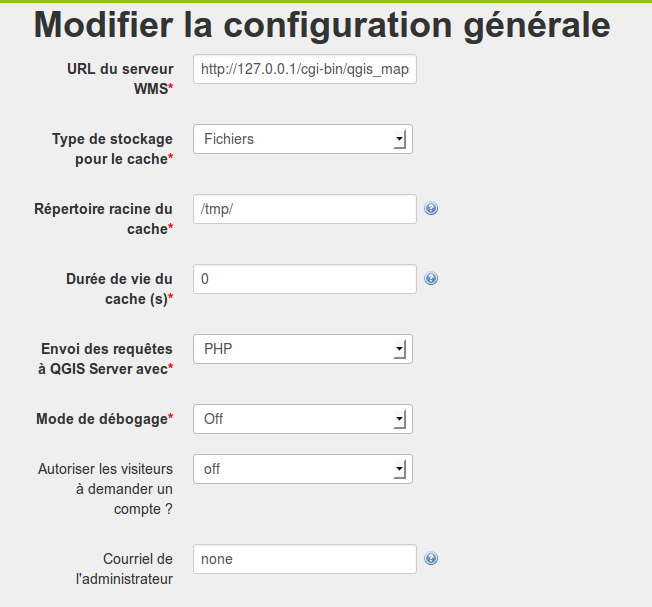
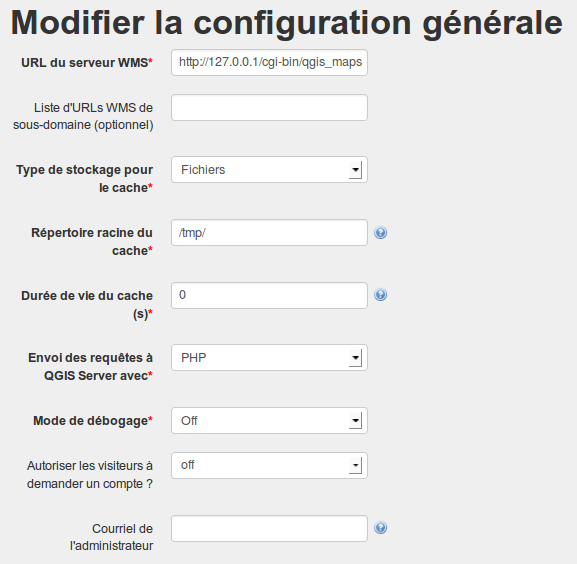
LWC - Change version number in installation guide

diff --git a/french/source/lizmap-web-client/installation/windows.rst b/french/source/lizmap-web-client/installation/windows.rst
@@ -4,7 +4,7 @@ Installation de Lizmap sous Windows
 
 Cette documentation présente le déroulement de l'installation de Lizmap Web Client sur un environnement  Windows 7. Les autres versions de Windows ne devraient pas poser de problème. Afin de faciliter l'installation, nous utilisons le logiciel OSGeo4W, qui permet d'installer l'ensemble des composants nécessaires de manière centralisée.
 
-.. note:: Dans ce document, nous utilisons la version 2.8.1 de Lizmap. Veuillez à adapter en fonction de la version que vous souhaitez installer (la dernière est recommandée)
+.. note:: Dans ce document, nous utilisons la version 2.9.0 de Lizmap. Veuillez à adapter en fonction de la version que vous souhaitez installer (la dernière est recommandée)
 
 Installation
 ===============================================================
@@ -69,9 +69,9 @@ Si rien ne s'affiche c'est que l'installation n'a pas réussi.
 
 12. Vérification de PHP
 
-Cliquer sur le lien 'phpinfo' de la page d'accueil du serveur apache d'OSGeo4W. Cette page permet de vérifier la configuration de votre serveur. Vous devriez y trouver des informations sur cgi-fcgi, PDO et PDO_sqlite mais pas sur CURL ni GD dont dépend LizMap. 
+Cliquer sur le lien 'phpinfo' de la page d'accueil du serveur apache d'OSGeo4W. Cette page permet de vérifier la configuration de votre serveur. Vous devriez y trouver des informations sur cgi-fcgi, PDO et PDO_sqlite mais pas sur CURL ni GD dont dépend LizMap.
 
-.. image:: ../MEDIA/installation-osgeo4w-09.jpg 
+.. image:: ../MEDIA/installation-osgeo4w-09.jpg
    :align: center
 
 .. image:: ../MEDIA/installation-osgeo4w-10.jpg
@@ -86,21 +86,21 @@ Ouvrir le fichier C:\OSGeo4W\bin\PHP.ini et dé-commenter l'extension curl et gd
 
 14. Rédémarrer Apache
 
-La modification du fichier C:\OSGeo4W\bin\PHP.ini afin d'activer CURL et GD dans PHP, oblige à redémarrer le serveur apache. Pour ce faire, 
+La modification du fichier C:\OSGeo4W\bin\PHP.ini afin d'activer CURL et GD dans PHP, oblige à redémarrer le serveur apache. Pour ce faire,
 
 * cliquer dans le menu principal de windows sur le moniteur apache 'Tous les programmes > OSGeo4W > Apache > OSGeo4W-Apache-Monitor'.
 
   .. image:: ../MEDIA/installation-osgeo4w-12.png
      :align: center
 
-* Cliquer sur le moniteur apache qui se trouve parmi les icônes cachées de la barre des tâches (en bas à droite) et sur 'Restart'. 
+* Cliquer sur le moniteur apache qui se trouve parmi les icônes cachées de la barre des tâches (en bas à droite) et sur 'Restart'.
 
   .. image:: ../MEDIA/installation-osgeo4w-13.png
      :align: center
 
 16. Vérfier CURL et GD
 
-Dans le navigateur web, recharger la page 'phpinfo'. Vous devriez y trouver une section CURL et GD. 
+Dans le navigateur web, recharger la page 'phpinfo'. Vous devriez y trouver une section CURL et GD.
 
 .. image:: ../MEDIA/installation-osgeo4w-14.jpg
    :align: center
@@ -109,27 +109,27 @@ Dans le navigateur web, recharger la page 'phpinfo'. Vous devriez y trouver une 
 
 Le code de Lizmap Web Client est libre et téléchargeable sur github. Pour télécharger la dernière version:
 
-* allez sur https://github.com/3liz/lizmap-web-client/tags 
-* Cliquez sur le petit lien *zip* de la dernière version. Par exemple le lien suivant pour la 2.8.1 : https://github.com/3liz/lizmap-web-client/archive/2.8.1.zip
+* allez sur https://github.com/3liz/lizmap-web-client/tags
+* Cliquez sur le petit lien *zip* de la dernière version. Par exemple le lien suivant pour la 2.9.0 : https://github.com/3liz/lizmap-web-client/archive/2.9.0.zip
 
 
 18. Décompresser LizMap dans 'C:\OSGeo4W\apache\htdocs\lizmap'
 
-Vous devez maintenant avoir un dossier 'C:\OSGeo4W\apache\htdocs\lizmap\lizmap-web-client-2.8.1\' 
+Vous devez maintenant avoir un dossier 'C:\OSGeo4W\apache\htdocs\lizmap\lizmap-web-client-2.9.0\'
 
 19. Test l'installation de Lizmap
 
-Tester si LizMap est bien installé en ouvrant dans le navigateur l'adresse http://localhost/lizmap/lizmap-web-client-2.8.1/lizmap/www. Vous devriez y voir s'afficher le projet "Montpellier" fourni avec LizMap et configurer pour être visible par tous. Pour pouvoir consulter les cartes, il va falloir configurer LizMap.
+Tester si LizMap est bien installé en ouvrant dans le navigateur l'adresse http://localhost/lizmap/lizmap-web-client-2.9.0/lizmap/www. Vous devriez y voir s'afficher le projet "Montpellier" fourni avec LizMap et configurer pour être visible par tous. Pour pouvoir consulter les cartes, il va falloir configurer LizMap.
 
 20. Interface d'administration
 
-Aller à l'adresse http://localhost/lizmap/lizmap-web-client-2.8.1/lizmap/www/admin.php et se connecter avec le login / mot de passe : 'admin/admin'.
+Aller à l'adresse http://localhost/lizmap/lizmap-web-client-2.9.0/lizmap/www/admin.php et se connecter avec le login / mot de passe : 'admin/admin'.
 
 21. Modifier l'URL de QGIS Server
 
 * Cliquer sur 'Configuration LizMap' puis sur modifier dans la section Services afin de préciser l'url de votre QGIS-Server.
 
-* Remplacer l'url du serveur WMS par http://127.0.0.1/qgis/qgis_mapserv.fcgi.exe et enregistrer : 
+* Remplacer l'url du serveur WMS par http://127.0.0.1/qgis/qgis_mapserv.fcgi.exe et enregistrer :
 
 .. image:: ../MEDIA/installation-osgeo4w-17.jpg
    :align: center
@@ -142,7 +142,7 @@ Afin de s'assurer que la configuration a bien réussi, cliquer sur 'Liste des pr
 Ajouter le support spatiatlite au PHP
 ==============================================================
 
-Pour pouvoir utiliser l'outil d'édition sur des couches spatiatlite, il faut ajouter l'extension spatialite dans PHP. Malheureusement, il faut une version de PHP au moins égale à la 5.3 pour le faire, et pour l'instant, l'installateur OSGeo4W ne propose que la 5.2. 
+Pour pouvoir utiliser l'outil d'édition sur des couches spatiatlite, il faut ajouter l'extension spatialite dans PHP. Malheureusement, il faut une version de PHP au moins égale à la 5.3 pour le faire, et pour l'instant, l'installateur OSGeo4W ne propose que la 5.2.
 
 *Il n'est donc pas possible pour l'instant sous Windows d'utiliser des couches Spatialite pour l'édition.*
 

diff --git a/french/source/lizmap-web-client/installation/linux.rst b/french/source/lizmap-web-client/installation/linux.rst
@@ -38,14 +38,14 @@ Depuis le fichier ZIP
    cd /var/www/
    # options
    MYAPP=lizmap-web-client
-   VERSION=2.8.1
+   VERSION=2.9.0
    # récupération de l'archive via wget
    wget https://github.com/3liz/lizmap-web-client/archive/$VERSION.zip
    # on dézippze l'archive
    unzip $VERSION.zip
    # on supprime le zip
    rm $VERSION.zip
-   
+
 Version de développement avec Github
 ~~~~~~~~~~~~~~~~~~~~~~~~~~~~~~~~~~~~~
 
@@ -66,12 +66,12 @@ Version de développement avec Github
    # créer une branche personnelle pour les éventuelles modifications
    git checkout -b mybranch
 
-   
+
 * Pour mettre à jour votre branche depuis le dépôt master
 
 .. code-block:: bash
 
-   
+
    cd /var/www/$MYAPP-$VERSION
    # vérifier que vous êtes bien sur la branche mybranch
    git checkout mybranch
@@ -86,10 +86,10 @@ Version de développement avec Github
    git checkout mybranch && git rebase master
    # réappliquer les droits
    chown :www-data temp/ lizmap/var/ lizmap/www lizmap/install/qgis/edition/ -R
-   chmod 775 temp/ lizmap/var/ lizmap/install/qgis/edition/ -R   
-   
+   chmod 775 temp/ lizmap/var/ lizmap/install/qgis/edition/ -R
+
 .. note:: Il est toujours bon de faire une sauvegarde avant toute mise à jour.
-   
+
 
 
 Donner les droits adéquats aux répertoires et fichiers
@@ -105,7 +105,7 @@ Donner les droits adéquats aux répertoires et fichiers
 Premier test
 --------------------------------------------------------------
 
-Aller à l'accueil de Lizmap pour voir si l'installation a été correctement réalisée : http://localhost/lizmap-web-client-2.8.1/lizmap/www/
+Aller à l'accueil de Lizmap pour voir si l'installation a été correctement réalisée : http://localhost/lizmap-web-client-2.9.0/lizmap/www/
 
 
 Outil d'édition : Configurer le serveur avec le support des bases de données
@@ -120,9 +120,9 @@ Pour que l'édition de couches PostGIS dans Lizmap Web Client fonctionnent, il f
 
    sudo apt-get install php5-pgsql
    sudo service apache2 restart
-   
+
 .. note:: Pour l'édition, nous conseillons fortement d'utiliser une base de données PostGreSQL. Cela simplifie fortement l'installation et la récupération des données saisies par les utilisateurs.
-  
+
 
 Spatialite
 ------------------------------
@@ -148,7 +148,7 @@ Par exemple, si un répertoire contient un projet QGIS, qui utilise une base de 
    |--- mon_projet.qgs
    |--- bdd
       |--- mon_fichier_spatialite.sqlite
-      
+
 Alors il faut donner les droits de cette manière:
 
 .. code-block:: bash
@@ -170,8 +170,8 @@ Avant de mettre à jour, faites une sauvegarde des données de configuration : l
 .. code-block:: bash
 
    MYAPP=lizmap-web-client
-   OLDVERSION=2.7.2 # replace by the version number of your current lizmap installation
-   # if you installation is 2.1.0 or less, use an empty OLDVERSION instead : 
+   OLDVERSION=2.8.1 # replace by the version number of your current lizmap installation
+   # if you installation is 2.1.0 or less, use an empty OLDVERSION instead :
    # OLDVERSION=
    cp /var/www/$MYAPP-$OLDVERSION/lizmap/var/jauth.db /tmp/jauth.db # base de données utilisateur
    cp /var/www/$MYAPP-$OLDVERSION/lizmap/var/config/lizmapConfig.ini.php /tmp/lizmapConfig.ini.php # text configuration file with services and repositories
@@ -185,11 +185,11 @@ Copier les fichiers sauvegardés dans le dossier de la nouvelle version
 
 .. code-block:: bash
 
-   $VERSION=2.8.1
+   $VERSION=2.9.0
    cp /tmp/jauth.db /var/www/$MYAPP-$VERSION/lizmap/var/jauth.db
    cp /tmp/lizmapConfig.ini.php /var/www/$MYAPP-$VERSION/lizmap/var/config/lizmapConfig.ini.php
    cp /tmp/logs.db /var/www/$MYAPP-$VERSION/lizmap/var/logs.db
-   
+
 .. note:: Pour certaines versions, il est aussi nécessaire de mettre à jour la base de données qui stocke les droits. Voir les points suivants pour plus de détail.
 
 De la version 2.3.0 ou inférieure à la 2.4.0 ou supérieure
@@ -201,7 +201,7 @@ Les librairies Jelix (outil avec lequel est construit Lizmap Web Client) a été
 
    cd /var/www/$MYAPP-$VERSION/
    sqlite3 lizmap/var/jauth.db < lizmap/install/sql/upgrade_jacl2db_1.3_1.4.sql
-   
+
 De la version 2.6 ou inférieure à la version 2.7
 ~~~~~~~~~~~~~~~~~~~~~~~~~~~~~~~~~~~~~~~~~~~~~~~~~
 
@@ -212,7 +212,7 @@ Le support des annotations a été ajouté à Lizmap, ainsi que la gestion des d
    cd /var/www/$MYAPP-$VERSION/
    sqlite3 lizmap/var/jauth.db < lizmap/install/sql/upgrade_jacl2db_lizmap_from_2.0_and_above_to_2.5.sql
 
-   
+
 De la version 2.7.*  à la version 2.8
 ~~~~~~~~~~~~~~~~~~~~~~~~~~~~~~~~~~~~~~~~~~~~~~~~~
 
@@ -239,7 +239,7 @@ Supprimer les fichiers temporaires de Jelix
 .. code-block:: bash
 
    rm -rf /var/www/$MYAPP-$VERSION/temp/lizmap/*
-   
+
 Redéfinir les droits sur les fichiers de l'application
 -------------------------------------------------------
 

diff --git a/french/source/lizmap-web-client/administration/lizmap-configuration.rst b/french/source/lizmap-web-client/administration/lizmap-configuration.rst
@@ -22,7 +22,8 @@ Les services
 
 Pour configurer les services, cliquer sur le bouton *Modifier* situé sous le récapitulatif
 
-* **URL du serveur WMS** : QGIS Server doit être installé sur le même ordinateur que Lizmap Web Client
+* **URL du serveur WMS** : L'url complète du serveur QGIS, par exemple http://localhost/cgi-bin/qgis_mapserv.fcgi . **Attention** QGIS Server doit être installé sur le même ordinateur que Lizmap Web Client
+* **Liste d'URLs WMS de sous-domaine (optionnel)** L'utilisation de plusieurs noms de domaines est une des optimisations classiques lorsqu'on utilise OpenLayers (comme Lizmap Web Client). Vous pouvez entrer ici une liste des sous-domaine séparés par virgule. Voir :ref:`wms_multi_domain` pour plus de détail.
 * **Type de stockage pour le cache**
 
  - *file*: Les tuiles mises en cache sont stockées dans un répertoire du serveur par couche
